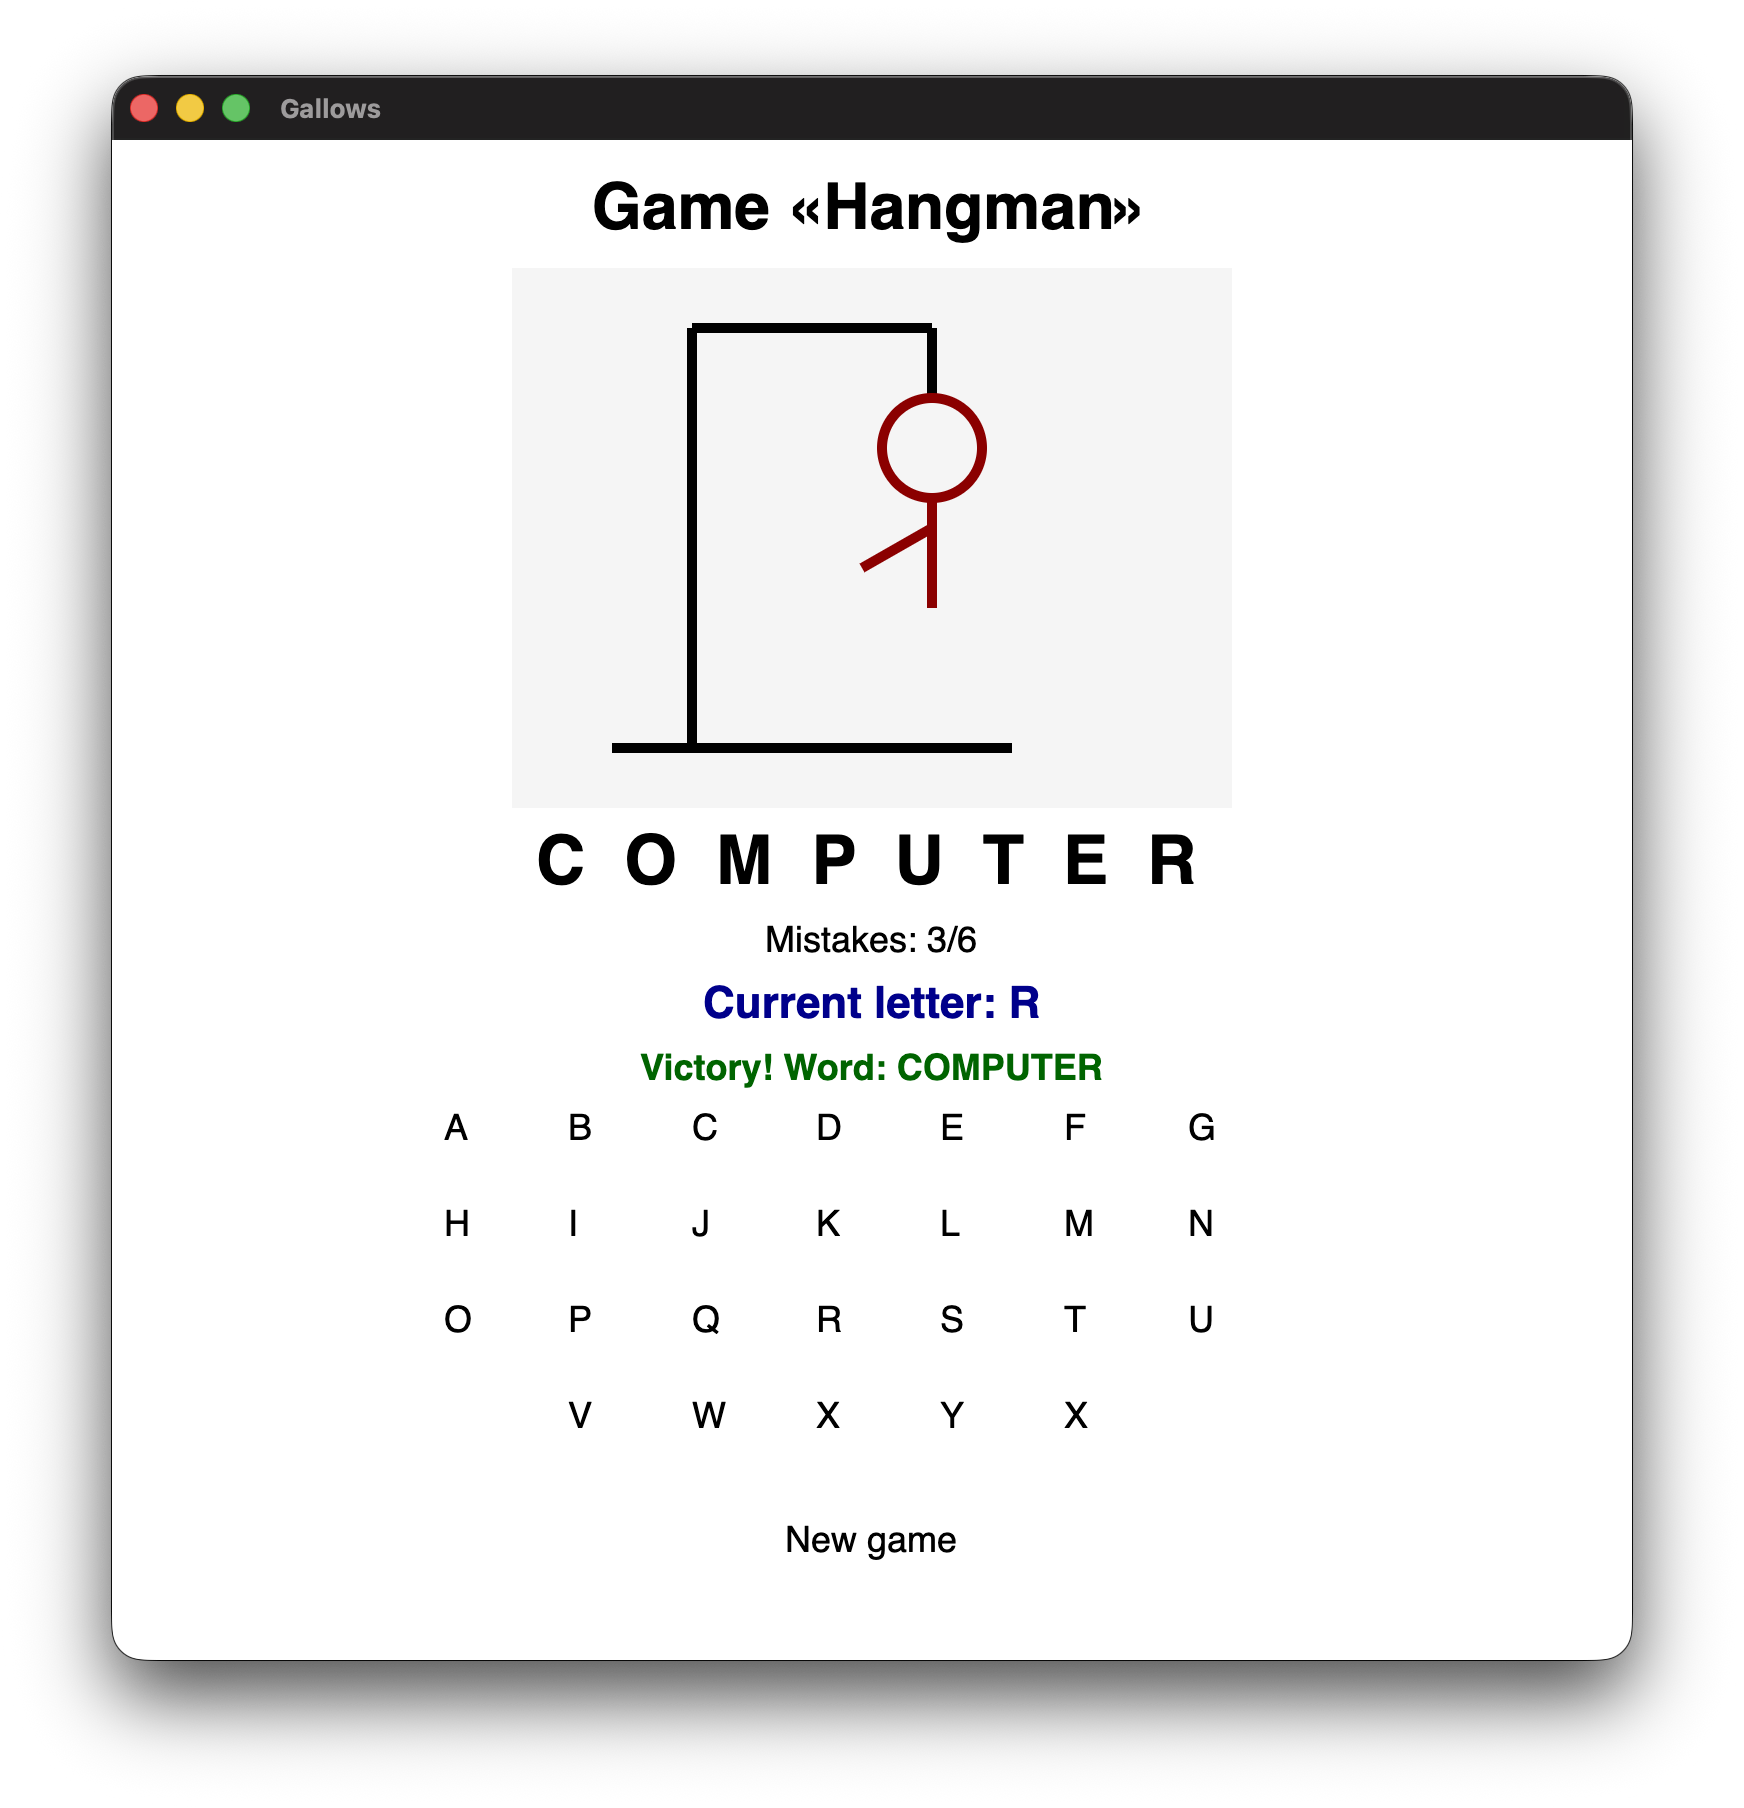
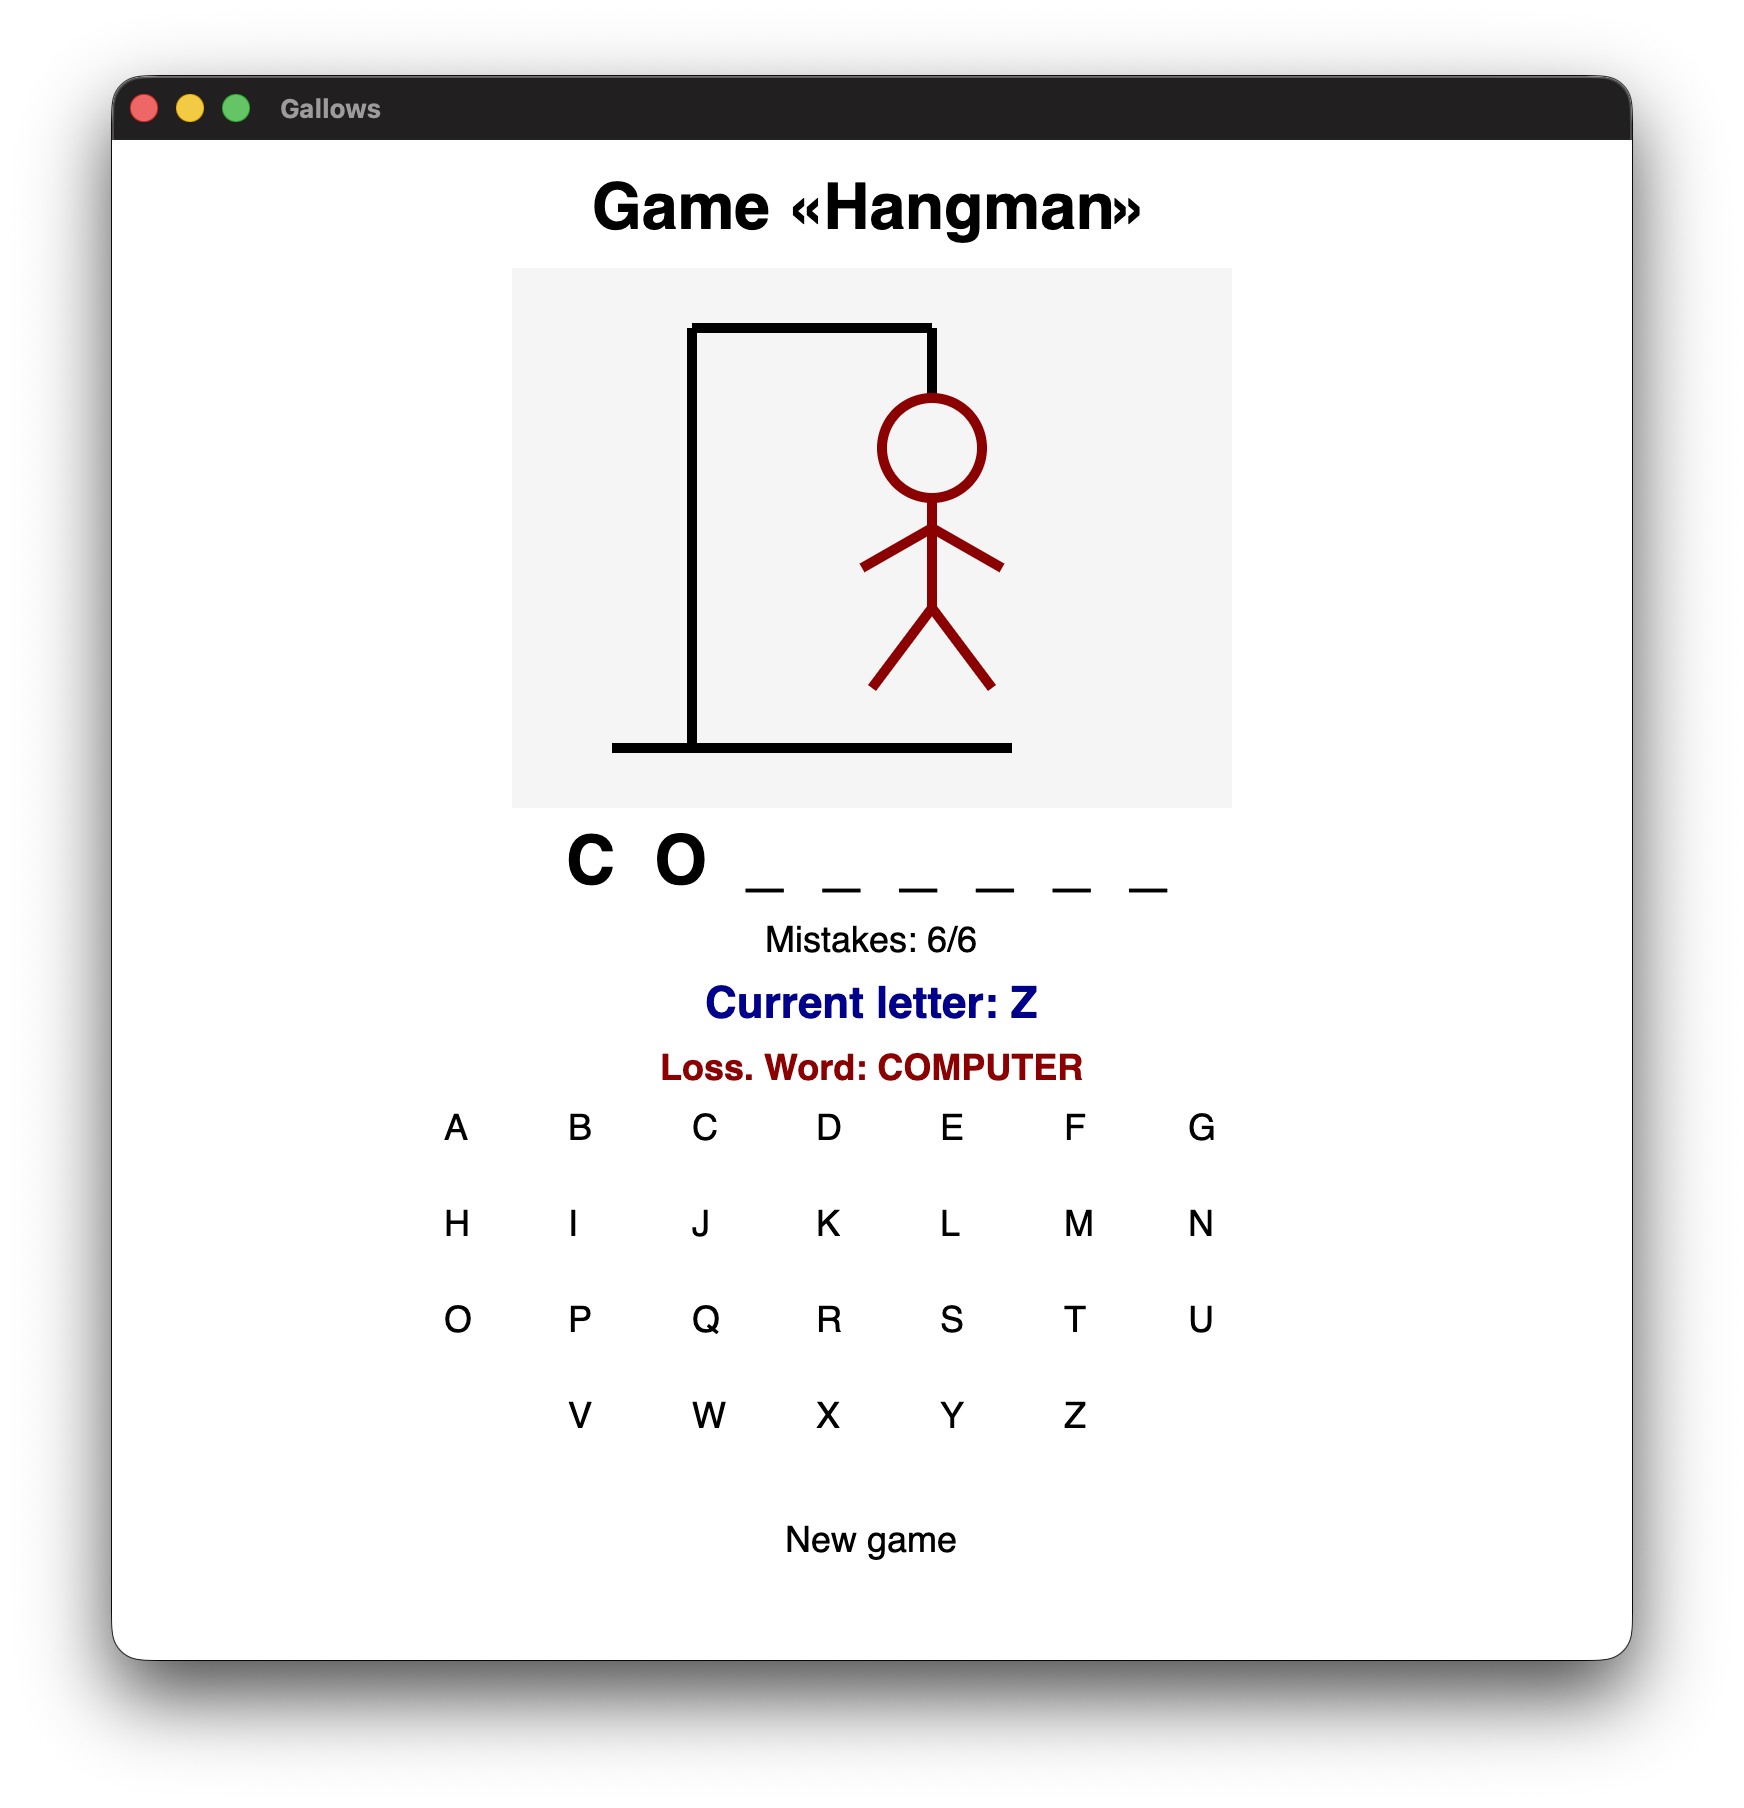
reworking readme and screenshots

diff --git a/Program.cs b/Program.cs
@@ -116,7 +116,7 @@ public class HangmanWindow : Window
         AddKeyboardRow("ABCDEFG");
         AddKeyboardRow("HIJKLMN");
         AddKeyboardRow("OPQRSTU");
-        AddKeyboardRow("VWXYX");
+        AddKeyboardRow("VWXYZ");
 
         restartButton.Content = "New game";
         restartButton.FontSize = 18;

diff --git a/README.md b/README.md
@@ -48,9 +48,9 @@ dotnet run
 ## Screenshots
 Start of the game
 ![Game screenshot](screenshots/game1.png)
-Loss game
-![Game screenshot](screenshots/game2.png)
 Win game
+![Game screenshot](screenshots/game2.png)
+Loss game
 ![Game screenshot](screenshots/game3.png)
 
 ## Technologies